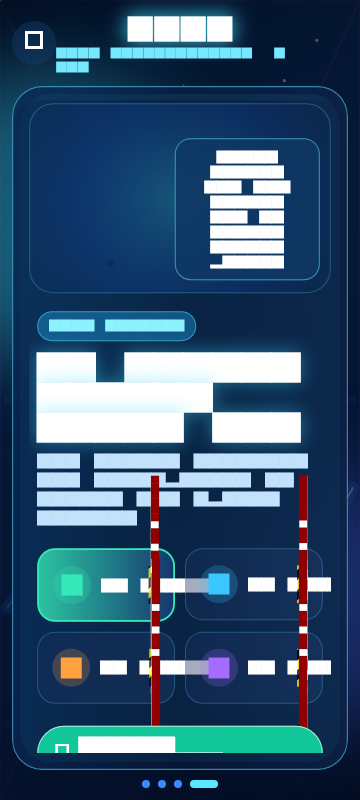
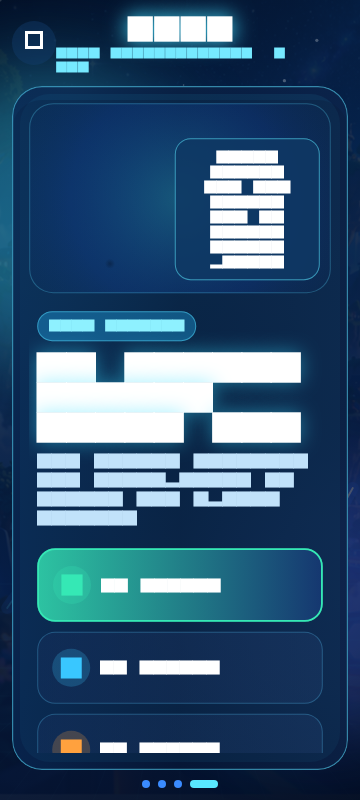
Fix onboarding screenshot capture validation

diff --git a/lib/features/onboarding/lumo_onboarding_holo_screen.dart b/lib/features/onboarding/lumo_onboarding_holo_screen.dart
@@ -65,7 +65,9 @@ class _LumoOnboardingScreenState extends State<LumoOnboardingScreen> {
                         children: [
                           _Header(
                             step: _step,
-                            onBack: _step == 0 ? null : () => setState(() => _step--),
+                            onBack: _step == 0
+                                ? null
+                                : () => setState(() => _step--),
                           ),
                           const SizedBox(height: 12),
                           Expanded(
@@ -73,16 +75,25 @@ class _LumoOnboardingScreenState extends State<LumoOnboardingScreen> {
                               child: wide
                                   ? Row(
                                       children: [
-                                        Expanded(flex: 5, child: _Hero(step: _step)),
+                                        Expanded(
+                                            flex: 5, child: _Hero(step: _step)),
                                         const SizedBox(width: 16),
-                                        Expanded(flex: 6, child: _stepBody()),
+                                        Expanded(
+                                          flex: 6,
+                                          child: c.maxHeight < 620
+                                              ? SingleChildScrollView(
+                                                  child: _stepBody(),
+                                                )
+                                              : _stepBody(),
+                                        ),
                                       ],
                                     )
                                   : Column(
                                       children: [
                                         SizedBox(
                                           height: c.maxHeight < 700 ? 150 : 190,
-                                          child: _Hero(step: _step, compact: true),
+                                          child:
+                                              _Hero(step: _step, compact: true),
                                         ),
                                         const SizedBox(height: 10),
                                         Expanded(
@@ -114,12 +125,14 @@ class _LumoOnboardingScreenState extends State<LumoOnboardingScreen> {
       0 => _Panel(
           eyebrow: 'Willkommen',
           title: 'Bereit für dein\nLernabenteuer?',
-          subtitle: 'Lumo richtet dein Profil ein und passt Aufgaben an dich an.',
+          subtitle:
+              'Lumo richtet dein Profil ein und passt Aufgaben an dich an.',
           body: const Column(
             children: [
               _Info(Icons.auto_awesome_rounded, 'Aufgaben passend zu dir'),
               SizedBox(height: 10),
-              _Info(Icons.sports_esports_rounded, 'Lernen schaltet Spiele frei'),
+              _Info(
+                  Icons.sports_esports_rounded, 'Lernen schaltet Spiele frei'),
               SizedBox(height: 10),
               _Info(Icons.star_rounded, 'Sterne, Belohnungen und Fortschritt'),
             ],
@@ -197,7 +210,8 @@ class _LumoOnboardingScreenState extends State<LumoOnboardingScreen> {
       _ => _Panel(
           eyebrow: 'Dein Lernweg',
           title: 'In welche Klasse gehst du?',
-          subtitle: 'Die Klasse bestimmt den Startpunkt. Du kannst sie später ändern.',
+          subtitle:
+              'Die Klasse bestimmt den Startpunkt. Du kannst sie später ändern.',
           body: LayoutBuilder(
             builder: (context, box) {
               const colors = [
@@ -211,8 +225,9 @@ class _LumoOnboardingScreenState extends State<LumoOnboardingScreen> {
                 runSpacing: 10,
                 children: List.generate(4, (i) {
                   final v = i + 1;
+                  final columns = box.maxWidth < 300 ? 1 : 2;
                   return SizedBox(
-                    width: (box.maxWidth - 10) / 2,
+                    width: (box.maxWidth - 10 * (columns - 1)) / columns,
                     child: _GradeChoice(
                       grade: v,
                       color: colors[i],
@@ -239,7 +254,8 @@ class _LumoOnboardingScreenState extends State<LumoOnboardingScreen> {
     );
   }
 
-  InputDecoration _inputDecoration({String hint = 'Dein Name'}) => InputDecoration(
+  InputDecoration _inputDecoration({String hint = 'Dein Name'}) =>
+      InputDecoration(
         hintText: hint,
         hintStyle: const TextStyle(
           color: Color(0xFF7DA4C8),
@@ -282,7 +298,16 @@ class _Background extends StatelessWidget {
                   Color(0xB508244A),
                   BlendMode.srcATop,
                 ),
-                child: Image.asset(baseAsset, fit: BoxFit.cover),
+                child: Image.asset(
+                  baseAsset,
+                  fit: BoxFit.cover,
+                  errorBuilder: (context, error, stackTrace) => wide
+                      ? Image.asset(
+                          'assets/lumo_design/bg/bg_home.png',
+                          fit: BoxFit.cover,
+                        )
+                      : const SizedBox.expand(),
+                ),
               ),
             ),
           ),
@@ -721,7 +746,9 @@ class _Panel extends StatelessWidget {
           const SizedBox(height: 22),
           FilledButton.icon(
             onPressed: onTap,
-            icon: Icon(finish ? Icons.rocket_launch_rounded : Icons.arrow_forward_rounded),
+            icon: Icon(finish
+                ? Icons.rocket_launch_rounded
+                : Icons.arrow_forward_rounded),
             label: Text(button),
             style: FilledButton.styleFrom(
               minimumSize: const Size.fromHeight(54),
@@ -816,9 +843,8 @@ class _RoleChoice extends StatelessWidget {
                     colors: [Color(0x88163867), Color(0x77203F72)],
                   ),
             border: Border.all(
-              color: selected
-                  ? const Color(0xFF75F2FF)
-                  : const Color(0x555ABDE8),
+              color:
+                  selected ? const Color(0xFF75F2FF) : const Color(0x555ABDE8),
               width: selected ? 1.7 : 1,
             ),
             boxShadow: selected
@@ -830,7 +856,9 @@ class _RoleChoice extends StatelessWidget {
             children: [
               Icon(
                 icon,
-                color: selected ? const Color(0xFF8EF1FF) : const Color(0xFF8DAAC7),
+                color: selected
+                    ? const Color(0xFF8EF1FF)
+                    : const Color(0xFF8DAAC7),
                 size: 26,
               ),
               const SizedBox(height: 6),
@@ -849,7 +877,6 @@ class _RoleChoice extends StatelessWidget {
         ),
       );
 }
-
 
 class _Choice extends StatelessWidget {
   const _Choice({
@@ -873,9 +900,8 @@ class _Choice extends StatelessWidget {
           decoration: BoxDecoration(
             borderRadius: BorderRadius.circular(17),
             border: Border.all(
-              color: selected
-                  ? const Color(0xFF71F0FF)
-                  : const Color(0x445ABDE8),
+              color:
+                  selected ? const Color(0xFF71F0FF) : const Color(0x445ABDE8),
               width: selected ? 1.7 : 1,
             ),
             gradient: selected

diff --git a/test/onboarding_visual_capture_test.dart b/test/onboarding_visual_capture_test.dart
@@ -14,15 +14,19 @@ Future<void> _capture(
   await tester.pump(const Duration(milliseconds: 320));
   final boundary =
       boundaryKey.currentContext!.findRenderObject()! as RenderRepaintBoundary;
-  final image = await boundary.toImage(pixelRatio: 1);
-  final data = await image.toByteData(format: ui.ImageByteFormat.png);
-  expect(data, isNotNull);
-  final directory = Directory('.ci-results/onboarding-visual')
-    ..createSync(recursive: true);
-  final file = File('${directory.path}/$name.png');
-  file.writeAsBytesSync(data!.buffer.asUint8List(), flush: true);
-  expect(file.lengthSync(), greaterThan(15000));
-  image.dispose();
+  final image = (await tester.runAsync(() => boundary.toImage(pixelRatio: 1)))!;
+  try {
+    final data = await tester
+        .runAsync(() => image.toByteData(format: ui.ImageByteFormat.png));
+    expect(data, isNotNull);
+    final directory = Directory('.ci-results/onboarding-visual')
+      ..createSync(recursive: true);
+    final file = File('${directory.path}/$name.png');
+    file.writeAsBytesSync(data!.buffer.asUint8List(), flush: true);
+    expect(file.lengthSync(), greaterThan(15000));
+  } finally {
+    image.dispose();
+  }
 }
 
 Future<GlobalKey> _pumpOnboarding(
@@ -56,13 +60,9 @@ Future<void> _tapText(WidgetTester tester, String label) async {
 void main() {
   TestWidgetsFlutterBinding.ensureInitialized();
 
-  tearDown(() async {
-    final binding = TestWidgetsFlutterBinding.instance;
-    await binding.setSurfaceSize(null);
-  });
-
   testWidgets('captures real onboarding runtime states at phone size',
       (tester) async {
+    addTearDown(() => tester.binding.setSurfaceSize(null));
     final key = await _pumpOnboarding(tester, const Size(360, 800));
     await _capture(tester, key, 'welcome-360x800');
 
@@ -79,8 +79,10 @@ void main() {
     await _capture(tester, key, 'class-360x800');
   });
 
-  testWidgets('captures responsive onboarding at phone, fold-landscape and wide',
+  testWidgets(
+      'captures responsive onboarding at phone, fold-landscape and wide',
       (tester) async {
+    addTearDown(() => tester.binding.setSurfaceSize(null));
     for (final entry in <(Size, String)>[
       (const Size(480, 800), 'welcome-480x800'),
       (const Size(840, 560), 'welcome-840x560'),
